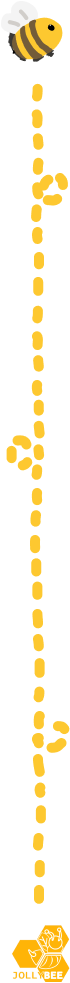
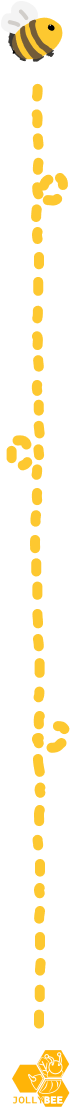
applied feedbacks

Changed region(s): [[0.0857, 0.0, 1.0, 1.0], [0.6571, 0.7325, 1.0, 0.763]]

diff --git a/src/components/Register/Register.jsx b/src/components/Register/Register.jsx
@@ -21,8 +21,9 @@ const Register = () => {
   const [timelineImg, setTimelineImg] = useState(jejaklebah);
   const [faqImg, setFaqImg] = useState(lebahfaq);
   const [points, setPoints] = useState([
-    {name: "Selection Phase 1", date: "23 October 2024", desc: "Consisted of 20 problems (10 basic programming problems and 10 math problems), online (no proctoring), open for 48 hours."},
-    {name: "Selection Phase 2", date: "26-27 October 2024", desc: "Consisted of 6-10 competivive programming problems."},
+    {name: "Registration Deadline", date: "23 October 2024", desc: "The registration form will be closed in 23 October 2024 at 23.59 WIB."},
+    {name: "Selection Phase 1", date: "26-27 October 2024", desc: "Consisted of 20 problems (10 basic programming problems and 10 math problems), online (no proctoring), open for 48 hours."},
+    {name: "Selection Phase 2", date: "8 December 2024", desc: "Consisted of 6-10 competivive programming problems."},
     {name: "Announcement", date: "January 2025", desc: "Results of registrants that advanced to Jollybee Basic Training are announced."},
     {name: "Jollybee Basic Training", date: "February 2025", desc: "The beginning of the Jollybee Basic Training (even semester)."},
   ])

diff --git a/src/components/Navbar/navbar.css b/src/components/Navbar/navbar.css
@@ -139,14 +139,13 @@
     }
 
     .links.open {
-        width: 25vw;
-        box-shadow: 0px 0 10px 10px var(--white);
+        width: calc(2 * var(--padding-lr) + 4rem);
     }
 
     .link {
         padding: 1rem var(--padding-lr);
         text-align: right;
-        width: 25vw;
+        width: calc(2 * var(--padding-lr) + 4rem);
         border-radius: 0;
         background-color: transparent;
         transform: translateX(100%);
@@ -177,11 +176,11 @@
 
 @media screen and (max-width: 768px) {
     .links.open {
-        width: 35vw;
+        width: calc(2 * var(--padding-lr) + 4rem);
     }
 
     .link {
-        width: 35vw;
+        width: calc(2 * var(--padding-lr) + 4rem);
     }
 }
 
@@ -199,10 +198,10 @@
     }
 
     .links.open {
-        width: 45vw;
+        width: calc(2 * var(--padding-lr) + 4rem);
     }
 
     .link {
-        width: 45vw;
+        width: calc(2 * var(--padding-lr) + 4rem);
     }
 }

diff --git a/src/components/Home/home.css b/src/components/Home/home.css
@@ -18,7 +18,7 @@
     position: absolute;
     left: -13rem;
     top: 2rem;
-    height: 80vh;
+    height: calc(var(--vh, 1vh) * 80);
     z-index: -10;
 }
 
@@ -26,7 +26,7 @@
     position: absolute;
     right: -8.7rem;
     bottom: -2rem;
-    height: 80vh;
+    height: calc(var(--vh, 1vh) * 80);
     z-index: -10;
 }
 
@@ -119,7 +119,6 @@
 
     .photos__left {
         left: -10rem;
-        height: 80vh;
     }
     
     .photos__right {
@@ -138,19 +137,17 @@
 
     .photos__left,
     .photos__right {
-        height: 70vh;
+        height: calc(var(--vh, 1vh) * 70);
         object-fit: cover;
         overflow: visible;
     }
 
     .photos__left {
         left: -10rem;
-        height: 70vh;
     }
     
     .photos__right {
         right: -10rem;
-        height: 70vh;
         bottom: -1rem;
     }
 }

diff --git a/src/components/Register/register.css b/src/components/Register/register.css
@@ -157,6 +157,7 @@
 
 .jejaklebah {
     position: absolute;
+    top: 0;
     padding-left: 8%;
 }
 
@@ -168,7 +169,7 @@
 .timeline__content {
     display: grid;
     width: calc(100% - 5rem);
-    grid-template-columns: repeat(4, 1fr);
+    grid-template-columns: repeat(5, 1fr);
     column-gap: 3rem;
     transform: translateY(-1.5rem);
 }
@@ -194,6 +195,16 @@
         top: 23vh;
         right: -3vw;
         width: 9vw;
+    }
+
+    .jejaklebah {
+        top: -1rem;
+    }
+}
+
+@media screen and (max-width: 1200px) {
+    .jejaklebah {
+        top: -1.5rem;
     }
 }
 
@@ -233,7 +244,7 @@
         width: 100%;
         row-gap: 1.2rem;
         transform: translateY(0);
-        padding: 3rem 0 3.5rem 0;
+        padding: 3.4rem 0 4rem 0;
     }
 
     .poinlebah__wrapper {

diff --git a/src/components/Benefits/Slider/slider.css b/src/components/Benefits/Slider/slider.css
@@ -20,12 +20,10 @@
 .swiper__identity {
     display: flex;
     flex-direction: column;
+    display: inline-block;
 }
 
 .swiper__identity h2 {
-    word-break: break-all;
-    white-space: normal;
-    overflow-wrap: break-word;
     display: inline-block;
 }
   
@@ -90,5 +88,15 @@
 
     .slider .swiper-button-next {
         right: 0%;
+    }
+
+    .swiper__header img {
+        height: 2.8rem;
+        width: 2.8rem;
+    }
+
+    .swiper__identity h2,
+    .swiper__identity h3 {
+        font-size: var(--h3-font-size);
     }
 }

diff --git a/src/components/Register/Timeline/timeline.css b/src/components/Register/Timeline/timeline.css
@@ -20,7 +20,7 @@
     .timeline {
         text-align: left;
         width: 80%;
-        padding-left: 5rem;
+        padding-left: 4.9rem;
     }
 
     .timeline .timeline__date {
@@ -46,6 +46,7 @@
 @media screen and (max-width: 768px) {
     .timeline {
         width: 100%;
+        padding-left: 5.2rem;
     }
 
     .timeline::before {

diff --git a/src/components/Learn/Resources/Resources.jsx b/src/components/Learn/Resources/Resources.jsx
@@ -33,6 +33,7 @@ const Resources = () => {
             autoplay={{
                 delay: 5000,
             }}
+            pauseOnMouseEnter={true}
             breakpoints={{
                 768: {
                     slidesPerView: 2

diff --git a/src/components/Benefits/Slider/Slider.jsx b/src/components/Benefits/Slider/Slider.jsx
@@ -66,6 +66,7 @@ const Slider = () => {
             autoplay={{
                 delay: 5000,
             }}
+            pauseOnMouseEnter={true}
             breakpoints={{
                 768: {
                     slidesPerView: 2

diff --git a/src/components/Home/About/about.css b/src/components/Home/About/about.css
@@ -22,6 +22,7 @@ a:hover {
 }
 
 .cp__section {
+    margin-top: 1rem;
     margin-bottom: 4rem;
     width: 70%;
 }
